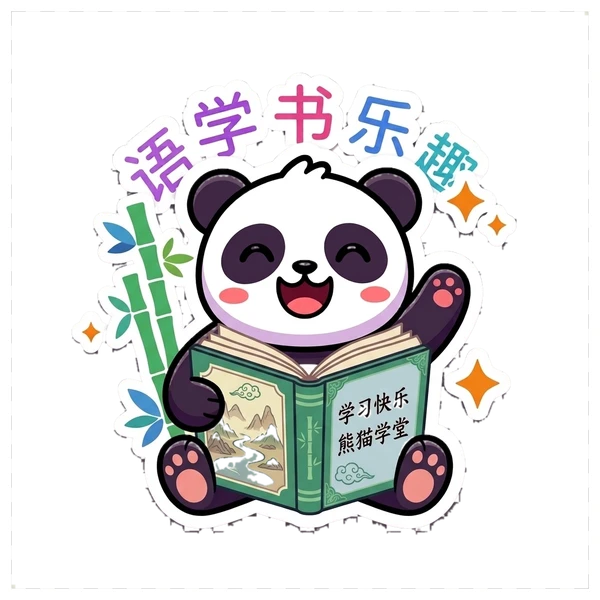
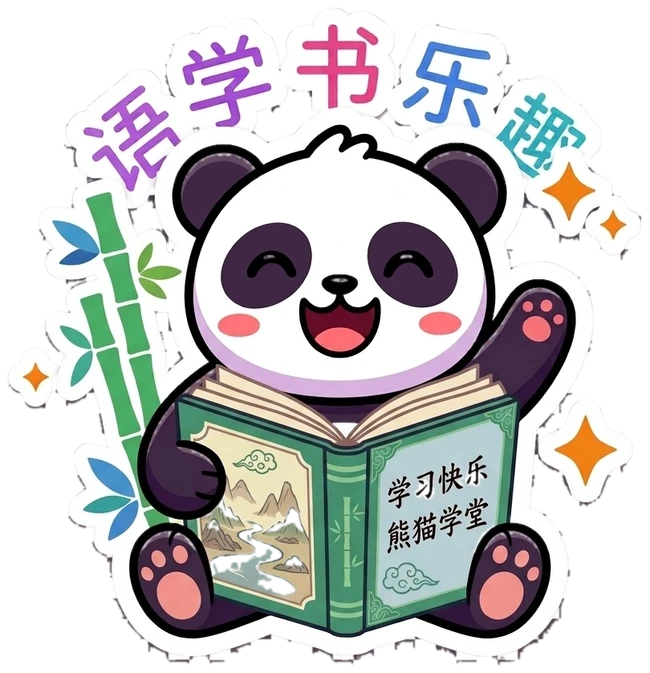
Xoa vien trang con sot va phong to anh panda o trang chu
Anh cutout truoc do van con 1 vien trang mo bao quanh toan bo canvas
(khong phai vien sticker, la vien trang cua anh goc) - do khong roi
vao nguong mau caro nen khong bi xoa. Xoa bang cach flood-fill tu 4
canh anh qua vung gan-trang. Cung tang kich thuoc hien thi tu h-40
len h-56 theo yeu cau.

Claude-Session: https://claude.ai/code/session_01ULxrEhNUunv88U4kZ9ipvJ

diff --git a/src/components/PandaHero.jsx b/src/components/PandaHero.jsx
@@ -7,7 +7,7 @@ export default function PandaHero() {
       <div className="pointer-events-none absolute -right-8 top-10 h-20 w-20 rounded-full bg-white/10" />
       <div className="pointer-events-none absolute bottom-0 right-6 h-14 w-14 rounded-full bg-sun-400/30" />
 
-      <img src={heroPanda} alt="Panda cầm sách" className="relative mx-auto h-40 w-auto drop-shadow-xl" />
+      <img src={heroPanda} alt="Panda cầm sách" className="relative mx-auto h-56 w-auto drop-shadow-xl" />
 
       <p className="relative mt-1 text-center text-sm font-semibold text-white drop-shadow">
         学中文, 加油! 💪 Học tiếng Trung mỗi ngày
